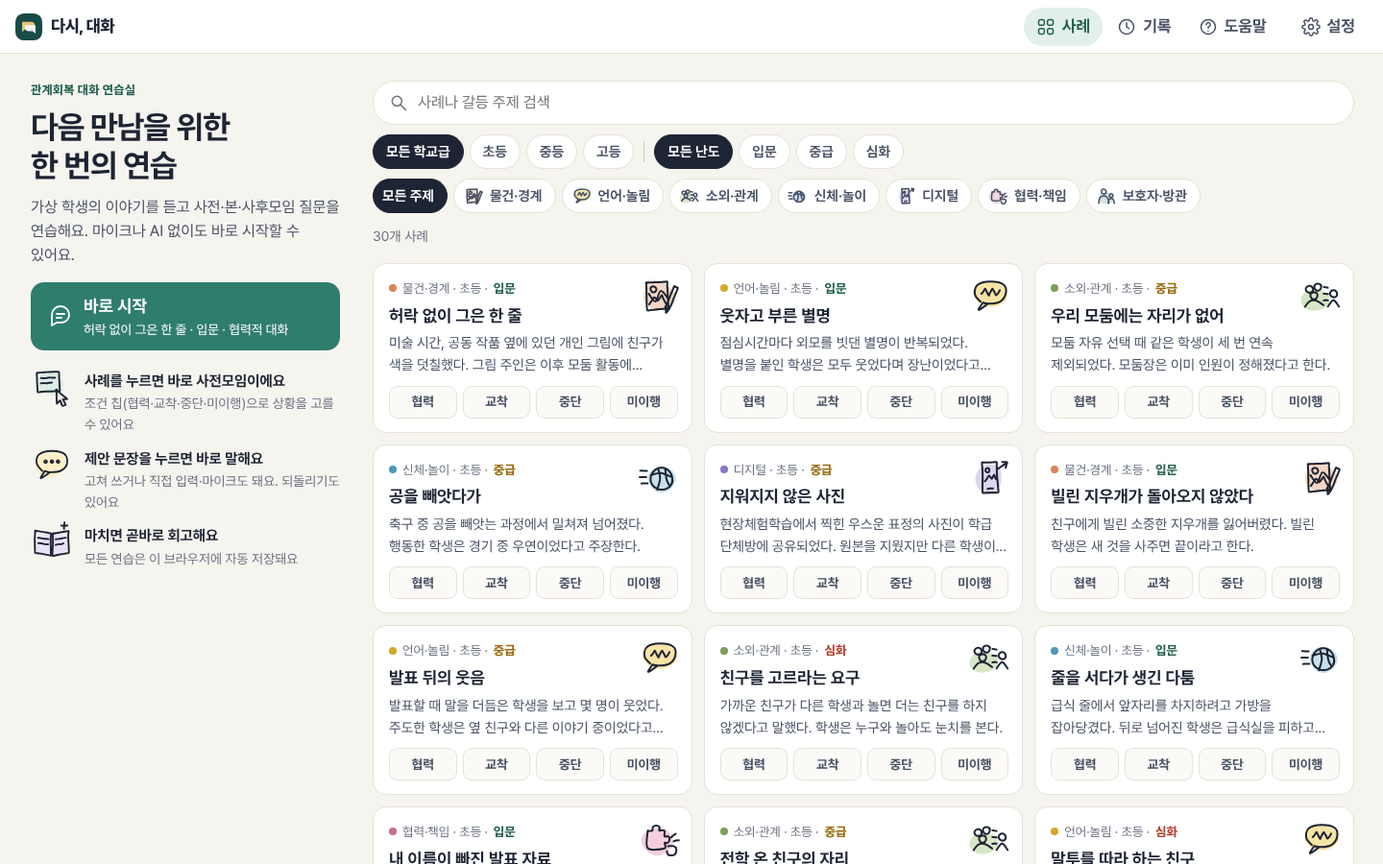
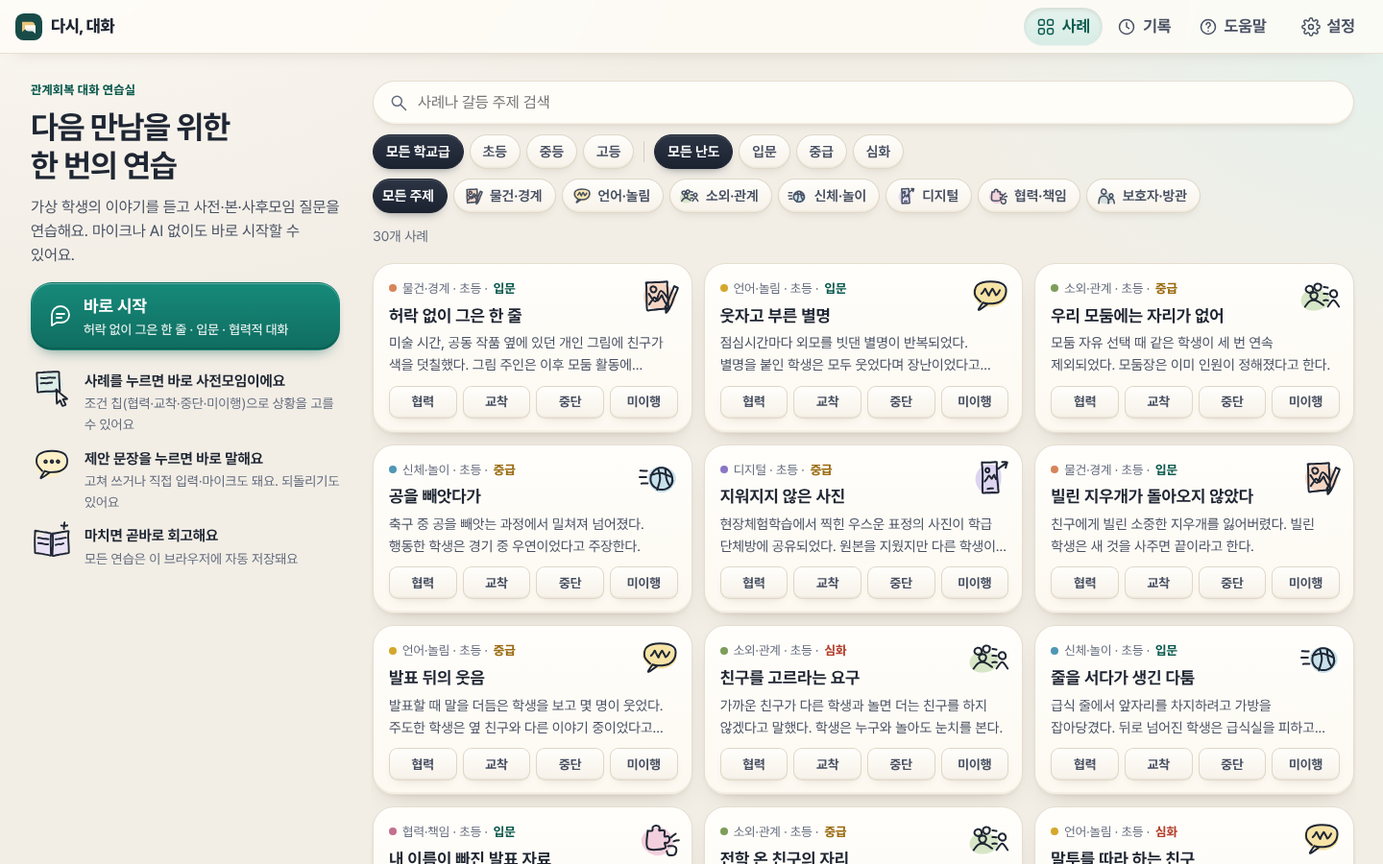
feat: v1.2 clay design, screen and message transitions, Korean-safe Enter
Reviewed against the ui-ux-pro-max guidelines (accessibility, touch, motion,
feedback):
- Clay look matching the 3D clay characters: soft rounded surfaces with a
  light top edge and gently pressed lower shadow, buttons that press in
  (scale and shadow only), checked rows pressed in, frosted top bars.
- Screen changes use View Transitions: forward slides left, back slides
  right, and the case title continues into the room and review titles.
  The transition never blocks clicks; unsupported browsers crossfade.
- Message effects: the tapped suggestion (or input) flies into the
  conversation as my bubble, replies pop out from the speaker's side in
  turn, the waiting bubble names who is thinking (with the right particle)
  and adds a note after 6 s, and undo shows the line flying back.
- Small feedback: checked rows pop, the next-step button glows once when it
  becomes available, phase step bumps, save tick, toasts spring in and
  leave faster, undo toasts show a countdown bar.
- Motion tokens in public/motion.js (140/220/420/260 ms, one spring curve),
  off with reduced motion; state never waits for an animation.
- Enter while composing Hangul (isComposing or keyCode 229) no longer sends
  or inserts a line break; repeated Enter does not send.
- One-time first tip inside the conversation, a "다음" marker on the next
  item to confirm, 44 px touch targets on touch screens.
- Tests: new "polish" section (failed first); a nav() helper waits for the
[…]

diff --git a/public/styles/app.css b/public/styles/app.css
@@ -513,3 +513,118 @@ dialog.sheet{margin:0 0 0 auto;width:min(430px,100vw);height:100dvh;max-height:1
 /* 손가락으로 누른 뒤 마우스 올림 모양이 남지 않게 합니다. */
 @media (hover:none){.nav:hover{background:none;color:var(--ink-2)}.nav.on:hover{background:var(--accent-soft);color:var(--accent-strong)}.case:hover{transform:none;box-shadow:none}.chip:hover{border-color:var(--line)}.sug-say:hover:not(:disabled){border-color:var(--line);box-shadow:none}}
 @media (prefers-reduced-motion: reduce){*,*::before,*::after{animation:none!important;transition:none!important;scroll-behavior:auto!important}}
+
+/* ======================================================================================
+   v1.2 점토(클레이) 디자인 — 3D 대화실의 점토 인형과 같은 재료로 만든 화면.
+   말랑한 둥근 면, 위는 밝고 아래는 살짝 눌린 두 겹 그림자, 누르면 쏙 들어가는 단추.
+   색은 차분한 청록(행동)과 드문 노랑(지금). 움직임은 motion.js와 같은 시간·곡선.
+   ====================================================================================== */
+:root{
+ --paper:#f2eee6;--surface:#fffdf8;--surface-2:#f8f4ec;--line:#e9e2d4;--line-2:#d8cebb;
+ --ink:#1f2633;--ink-2:#485062;--ink-3:#626a7c;
+ --accent:#127566;--accent-strong:#0c5a4e;--accent-soft:#dcefe8;
+ --now:#f4bf45;--now-soft:#fdf0cf;
+ --r:22px;--r-s:14px;
+ --clay:inset 0 1px 0 rgba(255,255,255,.95),inset 0 -2px 0 rgba(90,68,40,.05),0 12px 26px -16px rgba(90,68,40,.34),0 2px 5px -3px rgba(90,68,40,.16);
+ --clay-sm:inset 0 1px 0 rgba(255,255,255,.95),inset 0 -1.5px 0 rgba(90,68,40,.06),0 5px 12px -8px rgba(90,68,40,.3);
+ --clay-in:inset 0 2px 4px rgba(90,68,40,.14),inset 0 -1px 0 rgba(255,255,255,.7);
+ --ease-out:cubic-bezier(.22,1,.36,1);--ease-in:cubic-bezier(.45,0,.9,.4);
+ --spring:cubic-bezier(.3,1.35,.5,1);
+ --d-press:140ms;--d-state:220ms;--d-enter:420ms;--d-exit:260ms;
+}
+@supports (transition-timing-function:linear(0,1)){:root{--spring:linear(0,.009,.035 2.1%,.141,.281 6.7%,.723 12.9%,.938 16.7%,1.017,1.077,1.121,1.149 24.3%,1.159,1.163,1.161,1.154 29.9%,1.129 32.8%,1.051 39.6%,1.017 43.1%,.991,.977 51%,.974 53.8%,.975 57.1%,.997 69.8%,1.003 76.9%,1)}}
+html,body{background:var(--paper)}
+body{background:radial-gradient(1100px 620px at 4% -8%,#fbf8f2 0%,transparent 62%),radial-gradient(900px 520px at 104% 6%,#e5f1ec 0%,transparent 58%),var(--paper)}
+h1,h2{letter-spacing:-.025em}
+/* 점토 면 */
+.case,.resume-card,.record,.review-col,.help-steps li,.sug-say,.compose,.doc-card,.first-tip,.mini-stage,dialog,.check,.radio-cards label,.toggle,.search{box-shadow:var(--clay-sm);border-color:rgba(216,206,187,.65)}
+.case,.resume-card,.review-col,dialog{box-shadow:var(--clay);border-radius:var(--r)}
+.case{background:linear-gradient(180deg,#fffefb,#fdf9f1)}
+.case:hover{box-shadow:inset 0 1px 0 #fff,0 18px 30px -18px rgba(90,68,40,.42),0 3px 8px -4px rgba(90,68,40,.18);transform:translateY(-2px)}
+.appbar,.room-bar{background:rgba(255,253,248,.82);-webkit-backdrop-filter:blur(14px) saturate(1.2);backdrop-filter:blur(14px) saturate(1.2);border-bottom-color:rgba(216,206,187,.6);box-shadow:0 8px 20px -18px rgba(90,68,40,.5)}
+.notes{background:linear-gradient(180deg,rgba(255,253,248,.9),rgba(248,244,236,.95));border-left-color:rgba(216,206,187,.6)}
+.note{border-bottom-color:rgba(216,206,187,.55)}
+.stage-frame{border-radius:24px;box-shadow:var(--clay),inset 0 0 0 1px rgba(216,206,187,.7)}
+/* 단추: 말랑하게 솟아 있다가 누르면 쏙(크기·그림자만 바뀌어 자리가 흔들리지 않음) */
+.btn,.chip,.vchip,.icon-btn,.face,.sug-say,.sug-edit,.nav,.record-open,.next-q,.toggle,.link,.case-main{transition:transform var(--d-state) var(--spring),box-shadow var(--d-state) var(--ease-out),background-color var(--d-state) var(--ease-out),border-color var(--d-state) var(--ease-out),color var(--d-state) var(--ease-out)}
+.btn:active:not(:disabled),.chip:active,.vchip:active,.icon-btn:active:not(:disabled),.face:active,.sug-say:active:not(:disabled),.next-q:active,.toggle:active,.record-open:active{transform:scale(.97);transition-duration:var(--d-press)}
+.btn.primary{background:linear-gradient(180deg,#178a7a,#0f6d60);box-shadow:inset 0 1px 0 rgba(255,255,255,.32),inset 0 -2px 0 rgba(0,0,0,.14),0 8px 16px -10px rgba(12,90,78,.75)}
+.btn.primary:hover:not(:disabled){background:linear-gradient(180deg,#14806f,#0c5a4e)}
+.btn.primary:active:not(:disabled){box-shadow:inset 0 2px 5px rgba(0,0,0,.22)}
+.btn.outline,.icon-btn,.chip,.vchip{background:linear-gradient(180deg,#fffefb,#f7f2e9);box-shadow:var(--clay-sm);border-color:rgba(216,206,187,.8)}
+.btn.outline:active,.icon-btn:active,.chip:active,.vchip:active{box-shadow:var(--clay-in)}
+.chip.on{background:linear-gradient(180deg,#2c3545,#1b2230);border-color:#1b2230;box-shadow:inset 0 1px 0 rgba(255,255,255,.15),0 6px 12px -8px rgba(20,26,38,.7)}
+.outcomes .chip.on{background:linear-gradient(180deg,#178a7a,#0f6d60);border-color:#0f6d60}
+.vchip:hover{background:linear-gradient(180deg,#eaf6f2,#dcefe8)}
+.nav.on{background:linear-gradient(180deg,#e6f3ef,#d7ece5);box-shadow:var(--clay-in)}
+.face{box-shadow:0 4px 10px -6px rgba(29,36,51,.35),inset 0 1px 0 rgba(255,255,255,.9)}
+.face.on{background:linear-gradient(180deg,#2c3545,#1b2230)}
+.quick{border-radius:var(--r)}
+/* 제안 카드: 점토 타일. 번호 동그라미, 누르면 쏙 */
+.sug-say{border-radius:16px;background:linear-gradient(180deg,#fffefb,#fbf6ed)}
+.sug-say:hover:not(:disabled){border-color:var(--accent);box-shadow:var(--clay-sm),0 0 0 3px var(--accent-soft)}
+.sug-label kbd{border-radius:50%;width:1.5em;height:1.5em;border:0;background:var(--accent-soft);color:var(--accent-strong)}
+.compose{border-radius:20px;background:#fffefb}
+.compose textarea{border-radius:14px;box-shadow:var(--clay-in);background:#fbf8f2;margin:2px}
+/* 말풍선 */
+.bubble{border-radius:20px}
+.msg.teacher .bubble{background:linear-gradient(180deg,#178a7a,#0f6d60);border-radius:20px 20px 6px 20px;box-shadow:inset 0 1px 0 rgba(255,255,255,.25),0 8px 16px -12px rgba(12,90,78,.8)}
+.msg.participant .bubble{background:linear-gradient(180deg,#fffefb,#fcf8f0);border-radius:20px 20px 20px 6px;box-shadow:var(--clay-sm);transform-origin:0 100%}
+.msg.system{background:linear-gradient(180deg,#fff5da,#fcebc0);box-shadow:var(--clay-sm)}
+.avatar{box-shadow:0 3px 8px -4px rgba(29,36,51,.4),inset 0 1px 0 rgba(255,255,255,.6)}
+/* 생각하는 중: 그 사람 얼굴 옆의 말풍선에 점 세 개가 통통 */
+.thinking{display:flex;align-items:flex-end;gap:9px;padding-left:0;color:var(--ink-2);animation:think-in var(--d-enter) var(--spring) both}
+.think-bubble{display:inline-flex;align-items:center;gap:9px;padding:10px 14px;border-radius:20px 20px 20px 6px;background:linear-gradient(180deg,#fffefb,#fcf8f0);box-shadow:var(--clay-sm);font-size:.84rem}
+.thinking .dots{display:inline-flex;gap:4px}
+.thinking .dots i{width:7px;height:7px;border-radius:50%;background:var(--accent);opacity:.35;animation:think 1.1s infinite ease-in-out}
+.thinking .dots i:nth-child(2){animation-delay:.15s}.thinking .dots i:nth-child(3){animation-delay:.3s}
+@keyframes think{0%,80%,100%{opacity:.3;transform:none}40%{opacity:1;transform:translateY(-4px)}}
+@keyframes think-in{from{opacity:0;transform:translateY(8px) scale(.9)}}
+/* 처음 안내(대화 안, 아무것도 가리지 않음) */
+.first-tip{display:flex;align-items:center;gap:10px;padding:10px 10px 10px 14px;border-radius:var(--r-s);background:linear-gradient(180deg,#fff8e3,#fdf0cf);border:1px solid rgba(244,191,69,.45);font-size:.84rem;color:var(--ink-2);animation:think-in var(--d-enter) var(--spring) both}
+.first-tip>.icon{color:#b8860b;flex:none}
+.first-tip p{flex:1}
+.first-tip b{color:var(--ink)}
+/* 노트: 체크한 줄은 쏙 눌린 점토, 다음에 확인할 줄은 살짝 표시 */
+.check{border-radius:14px;background:linear-gradient(180deg,#fffefb,#faf6ee)}
+.check:has(input:checked){box-shadow:var(--clay-in);background:linear-gradient(180deg,#d5ebe4,#e2f1ec)}
+.check.next{border-color:rgba(244,191,69,.9);box-shadow:var(--clay-sm),0 0 0 3px rgba(244,191,69,.22)}
+.next-tag{margin-left:auto;padding:1px 8px;border-radius:999px;background:var(--now-soft);color:#7a5a07;font-size:.72rem;font-weight:800}
+.note.checks-note,.note.coach,.note.agreement-note,.note.app-note{padding:12px;border:0;border-radius:var(--r-s);background:rgba(255,253,248,.7);box-shadow:var(--clay-sm)}
+.save-state .icon{display:inline-block}
+/* 알림: 아래에서 통 올라오고(용수철), 빨리 사라짐. 되돌릴 수 있는 알림은 남은 시간 막대 */
+#toast{border-radius:18px;background:linear-gradient(180deg,#2c3545,#1b2230);box-shadow:inset 0 1px 0 rgba(255,255,255,.12),0 18px 40px -18px rgba(0,0,0,.6);transition:opacity var(--d-exit) var(--ease-in),transform var(--d-exit) var(--ease-in);overflow:hidden}
+#toast.show{transition:opacity var(--d-state) var(--ease-out),transform var(--d-enter) var(--spring)}
+.toast-timer{position:absolute;left:14px;right:14px;bottom:4px;height:3px;border-radius:2px;background:var(--now);transform-origin:0 50%;animation:toast-time 7s linear forwards}
+@keyframes toast-time{from{transform:scaleX(1)}to{transform:scaleX(0)}}
+/* 되돌린 말이 입력칸으로 돌아가는 복사본 */
+.motion-ghost{position:fixed;z-index:90;pointer-events:none;margin:0}
+.motion-ghost .bubble{height:100%;padding:9px 13px;border-radius:20px 20px 6px 20px;background:linear-gradient(180deg,#178a7a,#0f6d60);color:#fff;overflow:hidden}
+/* 창: 설정 판은 오른쪽에서, 읽기 창은 살짝 커지며 */
+dialog[open]{animation:dlg-in var(--d-enter) var(--spring)}
+dialog.sheet[open]{animation:sheet-in var(--d-enter) var(--ease-out)}
+dialog::backdrop{background:rgba(31,38,51,.38);-webkit-backdrop-filter:blur(3px);backdrop-filter:blur(3px)}
+@keyframes dlg-in{from{opacity:0;transform:translateY(10px) scale(.97)}}
+@keyframes sheet-in{from{transform:translateX(40px);opacity:.4}}
+@media (max-width:719px){@keyframes sheet-in{from{transform:translateY(50px);opacity:.4}}}
+.notes.open.enter{animation-timing-function:var(--spring)!important}
+/* 화면 전환(View Transitions): 앞으로 가면 왼쪽으로, 돌아가면 오른쪽으로. 사례 제목 → 연습실 제목 → 회고 제목은 이어서. 효과 중에도 누르기를 막지 않음 */
+::view-transition{pointer-events:none}
+::view-transition-old(root){animation:vt-out var(--d-exit) var(--ease-in) both}
+::view-transition-new(root){animation:vt-in var(--d-enter) var(--ease-out) both}
+:root[data-nav=back]::view-transition-old(root){animation-name:vt-out-back}
+:root[data-nav=back]::view-transition-new(root){animation-name:vt-in-back}
+@keyframes vt-out{to{opacity:0;transform:translateX(-28px) scale(.99)}}
+@keyframes vt-in{from{opacity:0;transform:translateX(36px)}}
+@keyframes vt-out-back{to{opacity:0;transform:translateX(28px) scale(.99)}}
+@keyframes vt-in-back{from{opacity:0;transform:translateX(-36px)}}
+.room-title h1,.review-title h1{view-transition-name:case-hero}
+::view-transition-group(case-hero){animation-duration:var(--d-enter);animation-timing-function:var(--spring)}
+/* 손가락으로 쓰는 화면: 누르는 곳은 44px 이상 */
+@media (pointer:coarse){
+ .btn,.icon-btn,.link,.chip,.vchip,.face,.sug-edit,.nav,.toggle{min-height:44px}
+ .icon-btn,.sug-edit,.link{min-width:44px}
+ .sug-edit{width:44px;height:44px}
+ .face .avatar{width:34px;height:34px}
+}
+@media (prefers-reduced-motion: reduce){::view-transition-group(*),::view-transition-old(*),::view-transition-new(*){animation:none!important}}

diff --git a/public/motion.js b/public/motion.js
@@ -1,0 +1,52 @@
+// 움직임(v1.2): 원인과 결과를 보여 줄 때만, 모두 같은 리듬(시간·곡선)으로 움직입니다.
+// 동작 줄이기를 켜면 하지 않고, 애니메이션이 끝나기를 기다려 상태를 바꾸지 않습니다(누르는 동안에도 화면은 늘 반응).
+export const reduced=()=>matchMedia('(prefers-reduced-motion: reduce)').matches;
+export const DUR={press:140,state:220,enter:420,exit:260};   // 나갈 때는 들어올 때의 약 60%
+const SPRING='linear(0,.009,.035 2.1%,.141,.281 6.7%,.723 12.9%,.938 16.7%,1.017,1.077,1.121,1.149 24.3%,1.159,1.163,1.161,1.154 29.9%,1.129 32.8%,1.051 39.6%,1.017 43.1%,.991,.977 51%,.974 53.8%,.975 57.1%,.997 69.8%,1.003 76.9%,1)';
+export const spring=(typeof CSS!=='undefined'&&CSS.supports?.('transition-timing-function',SPRING))?SPRING:'cubic-bezier(.3,1.35,.5,1)';
+export const OUT='cubic-bezier(.22,1,.36,1)',IN='cubic-bezier(.45,0,.9,.4)';
+const clamp=(x,a,b)=>Math.max(a,Math.min(b,x));
+
+// 화면 바꾸기: 같은 것(사례 카드 제목 → 연습실 제목 → 회고 제목)은 이어지고, 나머지는 앞(왼쪽)이나 뒤(오른쪽)로 미끄러집니다.
+// 바꾸는 일은 update 안에서 곧바로 일어나고, 전환 효과는 그 위에 얹힐 뿐입니다(효과 중에도 누르기를 막지 않음: CSS의 ::view-transition).
+export function navigate(dir,update){
+ const root=document.documentElement;
+ if(reduced()||typeof document.startViewTransition!=='function'||document.visibilityState==='hidden'){update();return;}
+ root.dataset.nav=dir;
+ try{
+  const vt=document.startViewTransition(update);
+  vt.finished.catch(()=>{}).finally(()=>{if(root.dataset.nav===dir)delete root.dataset.nav;});
+  vt.ready.catch(()=>{});vt.updateCallbackDone?.catch(()=>{});
+ }catch{delete root.dataset.nav;update();}
+}
+// 보낸 말: 누른 제안(또는 입력칸) 자리에서 대화 기록의 내 말풍선 자리로 날아갑니다.
+export function flyFrom(src,el){
+ if(!src||!el||reduced())return;
+ const to=el.getBoundingClientRect();if(!to.width||!src.width)return;
+ const dx=src.left-to.left,dy=src.top-to.top,sx=clamp(src.width/to.width,.5,1.6),sy=clamp(src.height/to.height,.5,1.6);
+ for(const a of el.getAnimations())a.cancel();
+ el.animate([{transformOrigin:'0 0',transform:`translate(${dx}px,${dy}px) scale(${sx},${sy})`,opacity:.55},{transformOrigin:'0 0',transform:'none',opacity:1}],{duration:DUR.enter+60,easing:spring});
+}
+// 학생·보호자의 답: 그 사람 쪽(왼쪽 아래)에서 말풍선이 톡 튀어나옵니다. 여럿이면 차례로.
+export function popIn(el,i=0){
+ if(!el||reduced())return;
+ const delay=i*120,b=el.querySelector('.bubble'),av=el.querySelector('.avatar');
+ b?.animate([{transform:'scale(.55)',opacity:0},{transform:'none',opacity:1}],{duration:DUR.enter,delay,easing:spring,fill:'backwards'});
+ av?.animate([{transform:'scale(.4)',opacity:0},{transform:'none',opacity:1}],{duration:DUR.enter,delay,easing:spring,fill:'backwards'});
+ el.querySelector('.who')?.animate([{opacity:0},{opacity:1}],{duration:DUR.state,delay:delay+80,easing:OUT,fill:'backwards'});
+}
+export function fadeUp(el,i=0){if(el&&!reduced())el.animate([{opacity:0,transform:'translateY(10px)'},{opacity:1,transform:'none'}],{duration:DUR.enter,delay:i*40,easing:OUT,fill:'backwards'});}
+// 되돌리기: 지운 내 말이 입력칸으로 돌아가는 모습(복사본만 움직이고, 지우기는 이미 끝났습니다).
+export function ghostTo(rect,html,toEl){
+ if(!rect||!toEl||reduced())return;
+ const b=toEl.getBoundingClientRect(),g=document.createElement('div');
+ g.className='motion-ghost';g.setAttribute('aria-hidden','true');g.innerHTML=html;g.querySelectorAll('[data-action],[id]').forEach(n=>{n.removeAttribute('data-action');n.removeAttribute('id');});
+ Object.assign(g.style,{left:rect.left+'px',top:rect.top+'px',width:rect.width+'px',height:rect.height+'px'});
+ document.body.append(g);
+ const anim=g.animate([{transform:'none',opacity:1},{transform:`translate(${b.left+12-rect.left}px,${b.top+4-rect.top}px) scale(.55)`,opacity:0}],{duration:DUR.exit+60,easing:IN,fill:'forwards'});
+ const drop=()=>g.remove();anim.finished.then(drop,drop);setTimeout(drop,DUR.exit+400);
+}
+// 작은 알림: 체크한 줄이 톡 튀고, 다음 단계 단추가 한 번 빛납니다.
+export function bump(el,s=1.035){if(el&&!reduced())el.animate([{transform:'none'},{transform:`scale(${s})`},{transform:'none'}],{duration:DUR.enter,easing:spring});}
+export function glow(el){if(el&&!reduced())el.animate([{boxShadow:'0 0 0 0 rgba(244,191,69,.75)'},{boxShadow:'0 0 0 12px rgba(244,191,69,0)'}],{duration:900,easing:OUT,iterations:2});}
+export function stagger(nodes,max=12){if(reduced())return;[...nodes].slice(0,max).forEach((el,i)=>el.animate([{opacity:0,transform:'translateY(14px) scale(.98)'},{opacity:1,transform:'none'}],{duration:DUR.enter,delay:i*38,easing:spring,fill:'backwards'}));}

diff --git a/public/views/room.js b/public/views/room.js
@@ -8,6 +8,12 @@ import {canRetry} from '../retry.js';
 import {remainingChecks} from '../flow.js';
 import {e,icon,btn,avatar} from './ui.js';
 
+// 받침에 따라 이/가: 민서가, 하린이
+const iga=name=>{const c=String(name).trim().slice(-1).charCodeAt(0);return name+(c>=0xAC00&&c<=0xD7A3&&(c-0xAC00)%28?'이':'가');};
+function thinking(s,c){
+ const who=s.target==='all'?'':s.target;
+ return `<div class="thinking" role="status">${who?avatar(who,c):'<span class="avatar all">'+icon('people')+'</span>'}<span class="think-bubble"><span class="dots" aria-hidden="true"><i></i><i></i><i></i></span><span class="who-thinks">${who?e(iga(roleName(c,who))):'모두'} 생각하고 있어요</span></span></div>`;
+}
 const ROLE_TAG={v:'피해 경험 학생',a:'행동한 학생',g:'보호자',all:'모두 함께'};
 const STEPS=[['pre','사전'],['main','본'],['post','사후']];
 
@@ -74,9 +80,9 @@ export function checksSection(s,c,state){
  if(r.paused)return `<section class="note checks-note paused"><h3>${icon('pause')}함께 만나는 일은 잠시 멈춰요</h3><p>거절을 존중하며 개별로 필요한 보호와 지원을 확인하세요. 본모임으로 넘어가지 않아요.</p>${btn('finish','보류·중단으로 마치기','btn outline full')}</section>`;
  const boxes=s.phase==='pre'?[['v',`${c.victim.name}의 참여 의사`],['a',`${c.actor.name}의 참여 의사`],['g','학생·보호자 동의 범위'],['safe','현재 안전과 대면 준비']]:s.phase==='main'?[['main','합의 또는 미합의 사항을 각자 확인']]:[];
  const items=s.phase==='main'?r.items.slice(1):[];
- const next=s.phase==='pre'?'본모임으로':'사후모임으로';
+ const next=s.phase==='pre'?'본모임으로':'사후모임으로',nextBox=boxes.find(([k])=>!s.checks[k])?.[0];
  return `<section class="note checks-note ${r.ready?'ready':''}"><h3>이번 단계에서 확인할 것${r.items.length?`<span class="check-progress">${r.done} / ${r.items.length}</span>`:''}</h3>
-  ${boxes.map(([k,label])=>`<label class="check"><input type="checkbox" id="check-${k}" data-check="${k}" ${s.checks[k]?'checked':''} ${state.busy?'disabled':''}><span>${e(label)}</span></label>`).join('')}
+  ${boxes.map(([k,label])=>`<label class="check ${k===nextBox?'next':''}"><input type="checkbox" id="check-${k}" data-check="${k}" ${s.checks[k]?'checked':''} ${state.busy?'disabled':''}><span>${e(label)}</span>${k===nextBox?'<small class="next-tag">다음</small>':''}</label>`).join('')}
   ${items.map(i=>`<p class="check-item ${i.done?'done':''}">${i.done?icon('check'):'<i aria-hidden="true"></i>'}${e(i.label)}<small>아래 합의 기록</small></p>`).join('')}
   ${s.phase==='post'?'<p>약속이 지켜졌는지와 지금 안전한지를 따로 묻고, 추가 지원을 정해요.</p>'+btn('finish','마치고 회고하기','btn primary full'):btn('advance',next+icon('arrow'),'btn primary full',(!canAdvance(s)||state.busy)?'disabled':'')}
   <small class="fine">${s.phase==='pre'?'직접 확인한 것만 표시해요. 서류나 침묵을 동의로 대신하지 않아요.':s.phase==='main'?'합의가 없어도 미합의 내용과 지원 계획을 적으면 이어갈 수 있어요.':''}</small>
@@ -107,7 +113,7 @@ export function roomView(s,c,state,ctx){
  return `<main id="main" class="room phase-${s.phase} ${state.notesOpen?'notes-open':''}" tabindex="-1">
   ${roomBar(s,c,{saveState,connected},left)}
   <section class="stage-area" aria-label="대화 장면">${faces(s,c,locked)}<div class="stage-frame"><div id="stage-slot" class="stage-slot"></div></div>${stageTools(state,threeD)}</section>
-  <section class="talk" aria-label="대화 기록"><div id="transcript" class="transcript" role="log" aria-live="polite" tabindex="0">${docCard(s,c)}${list.map((m,i)=>messageHtml(m,c,i===undoAt)).join('')}${state.busy?'<div class="thinking" role="status"><span></span><span></span><span></span>이야기를 생각하고 있어요</div>':''}</div>${state.error?`<p id="reply-error" class="error" role="alert">${e(state.error)}</p>`:''}</section>
+  <section class="talk" aria-label="대화 기록"><div id="transcript" class="transcript" role="log" aria-live="polite" tabindex="0">${docCard(s,c)}${ctx.tip?`<aside class="first-tip" role="note">${icon('spark')}<p><strong>처음이세요?</strong> 아래 <b>제안 문장을 누르면 바로 말해요.</b> 잘못 보냈다면 내 말 아래 <b>되돌리기</b>, 확인한 것은 <b>노트</b>에 체크해요.</p>${btn('dismiss-tip','알겠어요','link')}</aside>`:''}${list.map((m,i)=>messageHtml(m,c,i===undoAt)).join('')}${state.busy?thinking(s,c):''}</div>${state.error?`<p id="reply-error" class="error" role="alert">${e(state.error)}</p>`:''}</section>
   ${composer(s,c,state,options,ctx)}
   ${notesView(s,c,state)}
  </main>`;

diff --git a/public/version.js b/public/version.js
@@ -1,1 +1,1 @@
-export const VERSION='1.1.0';
+export const VERSION='1.2.0';

diff --git a/CHANGELOG.md b/CHANGELOG.md
@@ -1,5 +1,19 @@
 # 변경 기록
 
+## 1.2.0 — 2026-11-20
+
+화면을 더 쓰기 편하게, 그리고 새로운 모습으로 다듬었습니다(UI/UX 지침 검토: 접근성·누르기·움직임·피드백).
+
+- **점토(클레이) 디자인:** 3D 대화실의 점토 인형과 같은 재료로 만든 화면. 말랑한 둥근 면에 위는 밝고 아래는 살짝 눌린 두 겹 그림자, 누르면 쏙 들어가는 단추(크기·그림자만 바뀌어 자리가 흔들리지 않음). 체크한 줄은 눌린 점토처럼, 위 막대는 반투명. 행동 색은 차분한 청록, "지금"은 드문 노랑, 글꼴은 Pretendard 그대로.
+- **화면 전환:** 화면이 바뀔 때 앞으로 가면 왼쪽으로, 돌아가면 오른쪽으로 미끄러지며 바뀝니다. 사례 카드의 제목이 연습실 제목으로, 연습실 제목이 회고 제목으로 이어집니다(View Transitions). 효과 중에도 누르기를 막지 않고, 지원하지 않는 브라우저에서는 짧게 겹쳐 바뀝니다.
+- **메시지 효과:** 누른 제안(또는 입력칸)이 대화 기록의 내 말풍선으로 날아가고, 답은 그 사람 쪽에서 말풍선이 톡 튀어나옵니다(여럿이면 차례로). 기다리는 동안은 그 사람 얼굴 옆에 점 세 개가 통통 뛰는 말풍선과 "민서가 생각하고 있어요"(받침에 따라 이/가), 6초가 넘으면 "조금 더 걸리고 있어요". 되돌리기를 누르면 지운 말이 입력칸으로 돌아가는 모습이 보입니다.
+- **작은 피드백:** 체크한 줄이 톡 튀고, 다음 단계 단추를 누를 수 있게 되면 한 번 빛남. 단계가 바뀌면 단계 표시가 통. 자동 저장될 때 체크 표시가 살짝. 알림은 아래에서 용수철처럼 올라오고 빨리 사라지며, 되돌릴 수 있는 알림에는 줄어드는 남은 시간 막대. 설정 판·읽기 창도 열릴 때 부드럽게. 첫 화면 사례 카드는 차례로 나타남.
+- **움직임 규칙:** 모든 움직임이 같은 시간(누름 0.14초·바뀜 0.22초·들어옴 0.42초·나감 0.26초)과 같은 용수철 곡선을 씁니다. 나갈 때가 들어올 때보다 빠르고, 동작 줄이기를 켜면 모두 끕니다. 애니메이션이 끝나기를 기다려 상태를 바꾸지 않습니다.
+- **한글 입력:** 한글을 조합하는 중의 Enter는 글자 확정만 하고 보내지 않습니다(isComposing·keyCode 229). 예전에는 조합 중 Enter에 문장이 보내지거나 줄이 바뀔 수 있었습니다. 누르고 있어 반복되는 Enter도 보내지 않음.
+- **처음 안내:** 연습실을 처음 열면 대화 맨 위에 "제안 문장을 누르면 바로 말해요 · 되돌리기 · 노트에 체크" 한 줄 안내(아무것도 가리지 않음). 첫 말을 보내거나 "알겠어요"를 누르면 사라지고 다시 나오지 않음.
+- **다음에 할 일:** 노트의 확인 줄 가운데 다음에 확인할 줄에 "다음" 표시가 붙고, 체크하면 다음 줄로 옮겨 감.
+- **손가락 화면:** 터치 화면에서는 누르는 곳이 모두 44px 이상.
+
 ## 1.1.0 — 2026-11-20
 
 - **머리카락을 한 덩어리로 다시 지음(머리 위 원·가운데 층·파인 정수리):** 예전 머리카락은 정수리 덮개 위에 가닥 층을 여러 장 겹쳐 만들어, 층이 시작되는 곳마다 머리 위에 원처럼 선이 보이거나(하린 등) 머리 가운데에 층이 생겼습니다. 이제 실제 머리처럼 정수리 가마에서 모든 가닥이 뻗어 나와 머리선(앞머리·귀 앞·옆·뒤)에서 톱니 모양 끝으로 끝나는 하나의 면입니다. 결은 가마에서 퍼지는 고르지 않은 홈과 뭉친 가닥으로 냈습니다. 생김새 7가지 모두(단발·옆가르마 단발·반묶음·헝클어진 짧은 머리·짧게 다듬은 머리·짧은 옆가르마·어른 짧은 머리). 반묶음의 등 뒤 머리·묶음·머리끈은 따로입니다.

diff --git a/docs/VERIFICATION.md b/docs/VERIFICATION.md
@@ -312,3 +312,11 @@
 - 한계: 실제 그래픽 카드·실제 기기에서의 깜박임은 확인하지 않았습니다(Chromium 소프트웨어 렌더링으로 잼).
 - 머리카락 다시 짓기(같은 1.1.0): 덮개 안쪽에서 시작하게 고친 뒤에도 앞머리 층의 윗가장자리(위도 64°)가 머리 가운데에 선으로 보였습니다(사용자). 새 검사 "hair is one piece from the crown to the hairline"은 머리카락의 열린 가장자리가 위도 40° 위에 있으면 실패합니다. 고치기 전 64°로 실패, 한 덩어리로 다시 지은 뒤 7가지 모두 통과(가장자리는 머리선에만). 앞서 쓴 "층이 덮개 안쪽에서 시작" 검사는 덮개와 층이 없어져 이 검사로 바꿨습니다. 네 방향 사진과 대화실 사진에서 층·선이 없는 것을 확인했고, 처음 판에서 보인 가마의 작은 검은 점과 너무 반듯한 결 홈은 결 무늬를 가마 쪽에서 줄이고 홈을 고르지 않게 해 고쳤습니다.
 - (블렌더 목업) 같은 모델·카메라·빛 방향을 블렌더 5.3 Cycles로 렌더해 비교했습니다. 빛은 부드러워졌지만 모델이 같아 크게 좋아지지 않았고, 사용자가 블렌더 전환은 하지 않기로 했습니다. 목업 스크립트는 저장소에 넣지 않았습니다.
+
+## v1.2.0 — 점토 디자인·전환·메시지 효과·편의
+
+- 새 검사 `ui-browser.mjs` "polish"(고치기 전 실패 확인): 첫 안내가 대화 안에 보이고 첫 말 뒤에 사라지며 다시 열어도 안 나옴, 노트의 "다음" 표시가 다음 줄로 옮겨 감, 한글 조합 중 Enter(isComposing·keyCode 229)는 보내지 않고 줄도 바꾸지 않음, 기다리는 말풍선에 "민서" 이름, 되돌릴 수 있는 알림의 남은 시간 막대, 화면 전환 효과 중에도 바로 누른 사례가 열림.
+- 화면 전환이 다음 그림에서 화면을 바꾸게 되어, 메뉴를 누른 바로 뒤 확인하던 검사가 처음에 실패했습니다(기록 화면이 아직 들어오기 전). 검사에 "새 화면이 들어올 때까지 기다리는" nav() 도우미를 넣어 14곳을 바꿨고, 무대 검사의 같은 곳 2곳도 기다리게 했습니다.
+- 통과: `npm test` 76개, `ui-browser.mjs` 16구간 전체(동작 줄이기에서 움직임 0 포함), `stage-browser.mjs` library·room·review·alive·pick.
+- 0.12배속으로 찍어 사례 카드 제목이 연습실 제목으로 이어지는 전환을 확인했습니다.
+- 한계: Chromium에서만 확인(View Transitions를 지원하지 않는 브라우저는 짧은 겹침으로 바뀜). 실제 한글 IME 입력은 흉내 낸 키 이벤트로 확인했습니다.

diff --git a/docs/UI-DIRECTION.md b/docs/UI-DIRECTION.md
@@ -1,5 +1,11 @@
 # 읽기 쉽고 누르기 쉬운 대화 연습실
 
+## v1.2 점토와 움직임(지금의 겉모습)
+
+- 겉모습: 3D 대화실의 점토 인형과 같은 재료. 둥근 면(카드 22px·작은 것 14px), 위는 밝은 테두리·아래는 살짝 눌린 두 겹 그림자(--clay), 누르면 크기 .97과 눌린 그림자(--clay-in). 자리를 바꾸는 움직임은 쓰지 않음.
+- 움직임 규칙(public/motion.js, app.css 끝의 v1.2 묶음): 누름 140ms · 바뀜 220ms · 들어옴 420ms · 나감 260ms, 하나의 용수철 곡선. 원인과 결과가 있을 때만(보냄→날아감, 답→튀어나옴, 체크→톡, 준비됨→빛남, 앞/뒤 화면→왼/오른쪽). 동작 줄이기에서는 끔. 애니메이션 끝을 기다려 상태를 바꾸지 않음. 화면 전환은 View Transitions(누르기를 막지 않음).
+- 검토 근거: ui-ux-pro-max 지침의 접근성·누르기(44px)·움직임(spring, exit-faster-than-enter, shared-element, interruptible, no-blocking)·한글 IME Enter. 제안된 색(남색·주황)과 글꼴(Baloo·Comic Neue)은 한글이 없고 주제(학교폭력 관계회복)에 비해 너무 어린 느낌이라 쓰지 않았습니다.
+
 ## v1.0 다시 짓기(지금의 방향)
 
 v0.9까지의 화면 방향(아래)은 v1.0에서 폐기했습니다. 지금의 원칙과 화면은 `docs/superpowers/specs/2026-11-19-ui-rebuild-design.md`에 있습니다. 요약:

diff --git a/README.md b/README.md
@@ -1,4 +1,4 @@
-# 다시, 대화 · v1.1
+# 다시, 대화 · v1.2
 
 충남 관계회복지원단 교사가 가상 학생·보호자와 대화모임을 연습하는 웹앱입니다. 충남 관계회복 운영 자료를 참고했습니다. [자료와 적용 범위](docs/SOURCES.md)에 참고 링크를 정리했습니다. 학교급별 창작 사례 30개를 제공합니다.
 
@@ -35,6 +35,12 @@ Node.js 22 이상이 있으면 추가 패키지 설치 없이 실행됩니다. m
 
 Finder에서 `다시대화 실행.command`를 더블클릭해 서버를 시작할 수도 있습니다. 같은 포트에서 이미 실행 중이라면 기존 브라우저 주소를 열면 됩니다. 파일을 `file://`로 직접 열지 마세요.
 
+
+## v1.2에서 달라진 점
+
+- 3D 인형과 같은 점토 느낌의 화면, 누르면 쏙 들어가는 단추.
+- 화면이 바뀔 때 사례 제목이 연습실 제목으로 이어지며 미끄러지는 전환, 보낸 제안이 말풍선으로 날아가고 답이 톡 튀어나오는 메시지 효과, "민서가 생각하고 있어요" 말풍선.
+- 한글 조합 중 Enter로 잘못 보내지지 않음, 처음 한 번만 나오는 짧은 안내, 노트의 "다음" 표시, 되돌릴 수 있는 알림의 남은 시간 막대.
 
 ## v1.1에서 달라진 점
 
